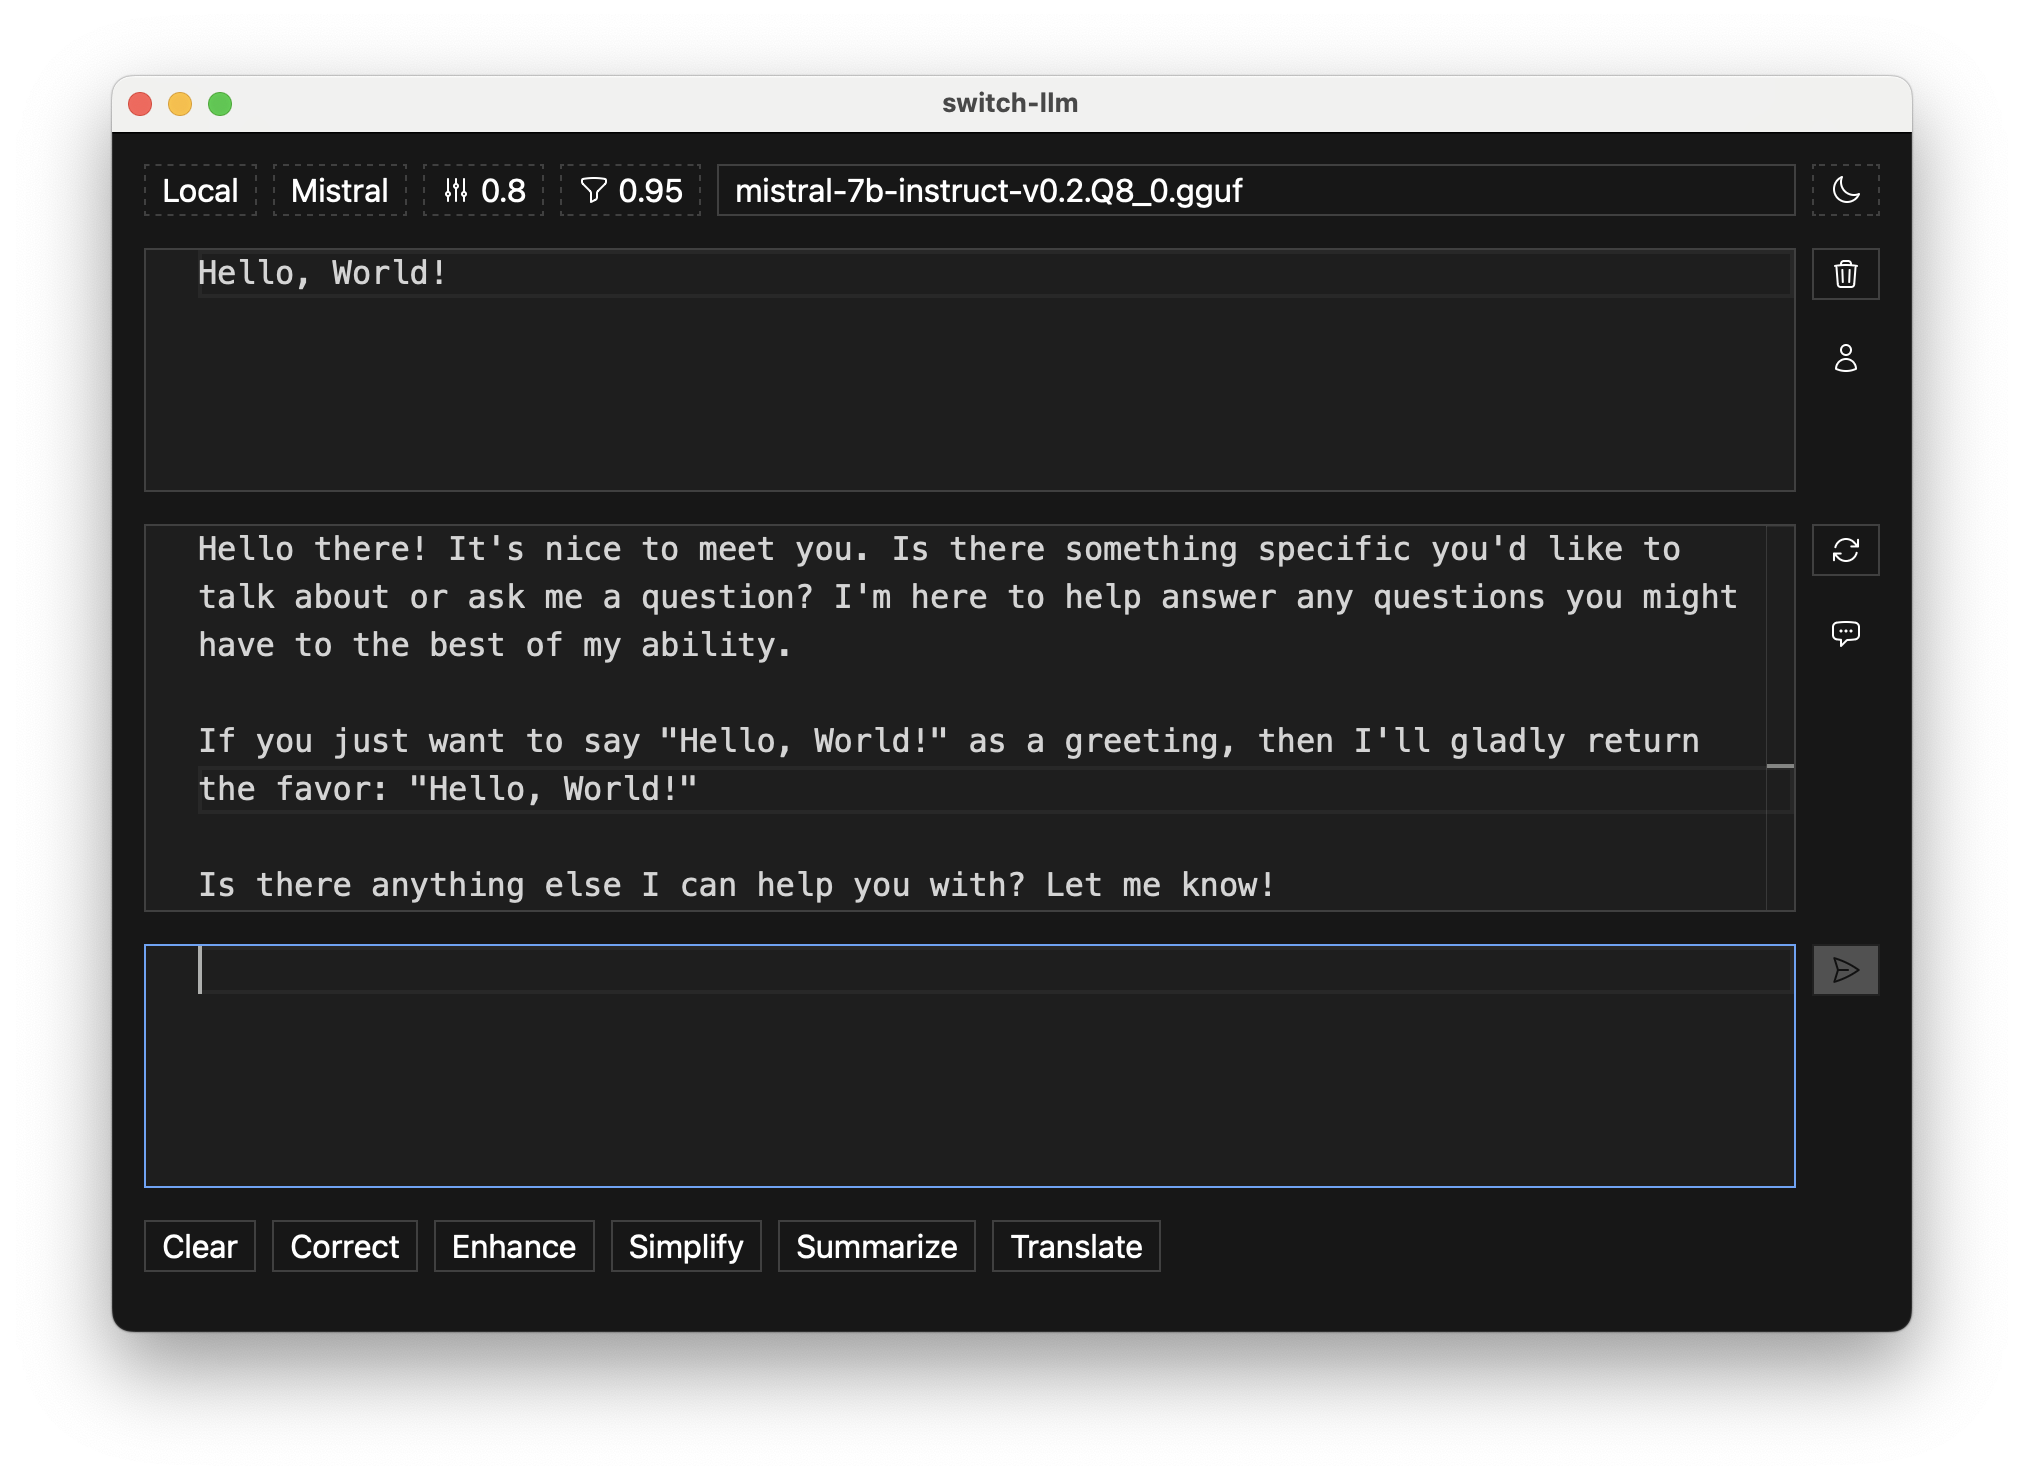
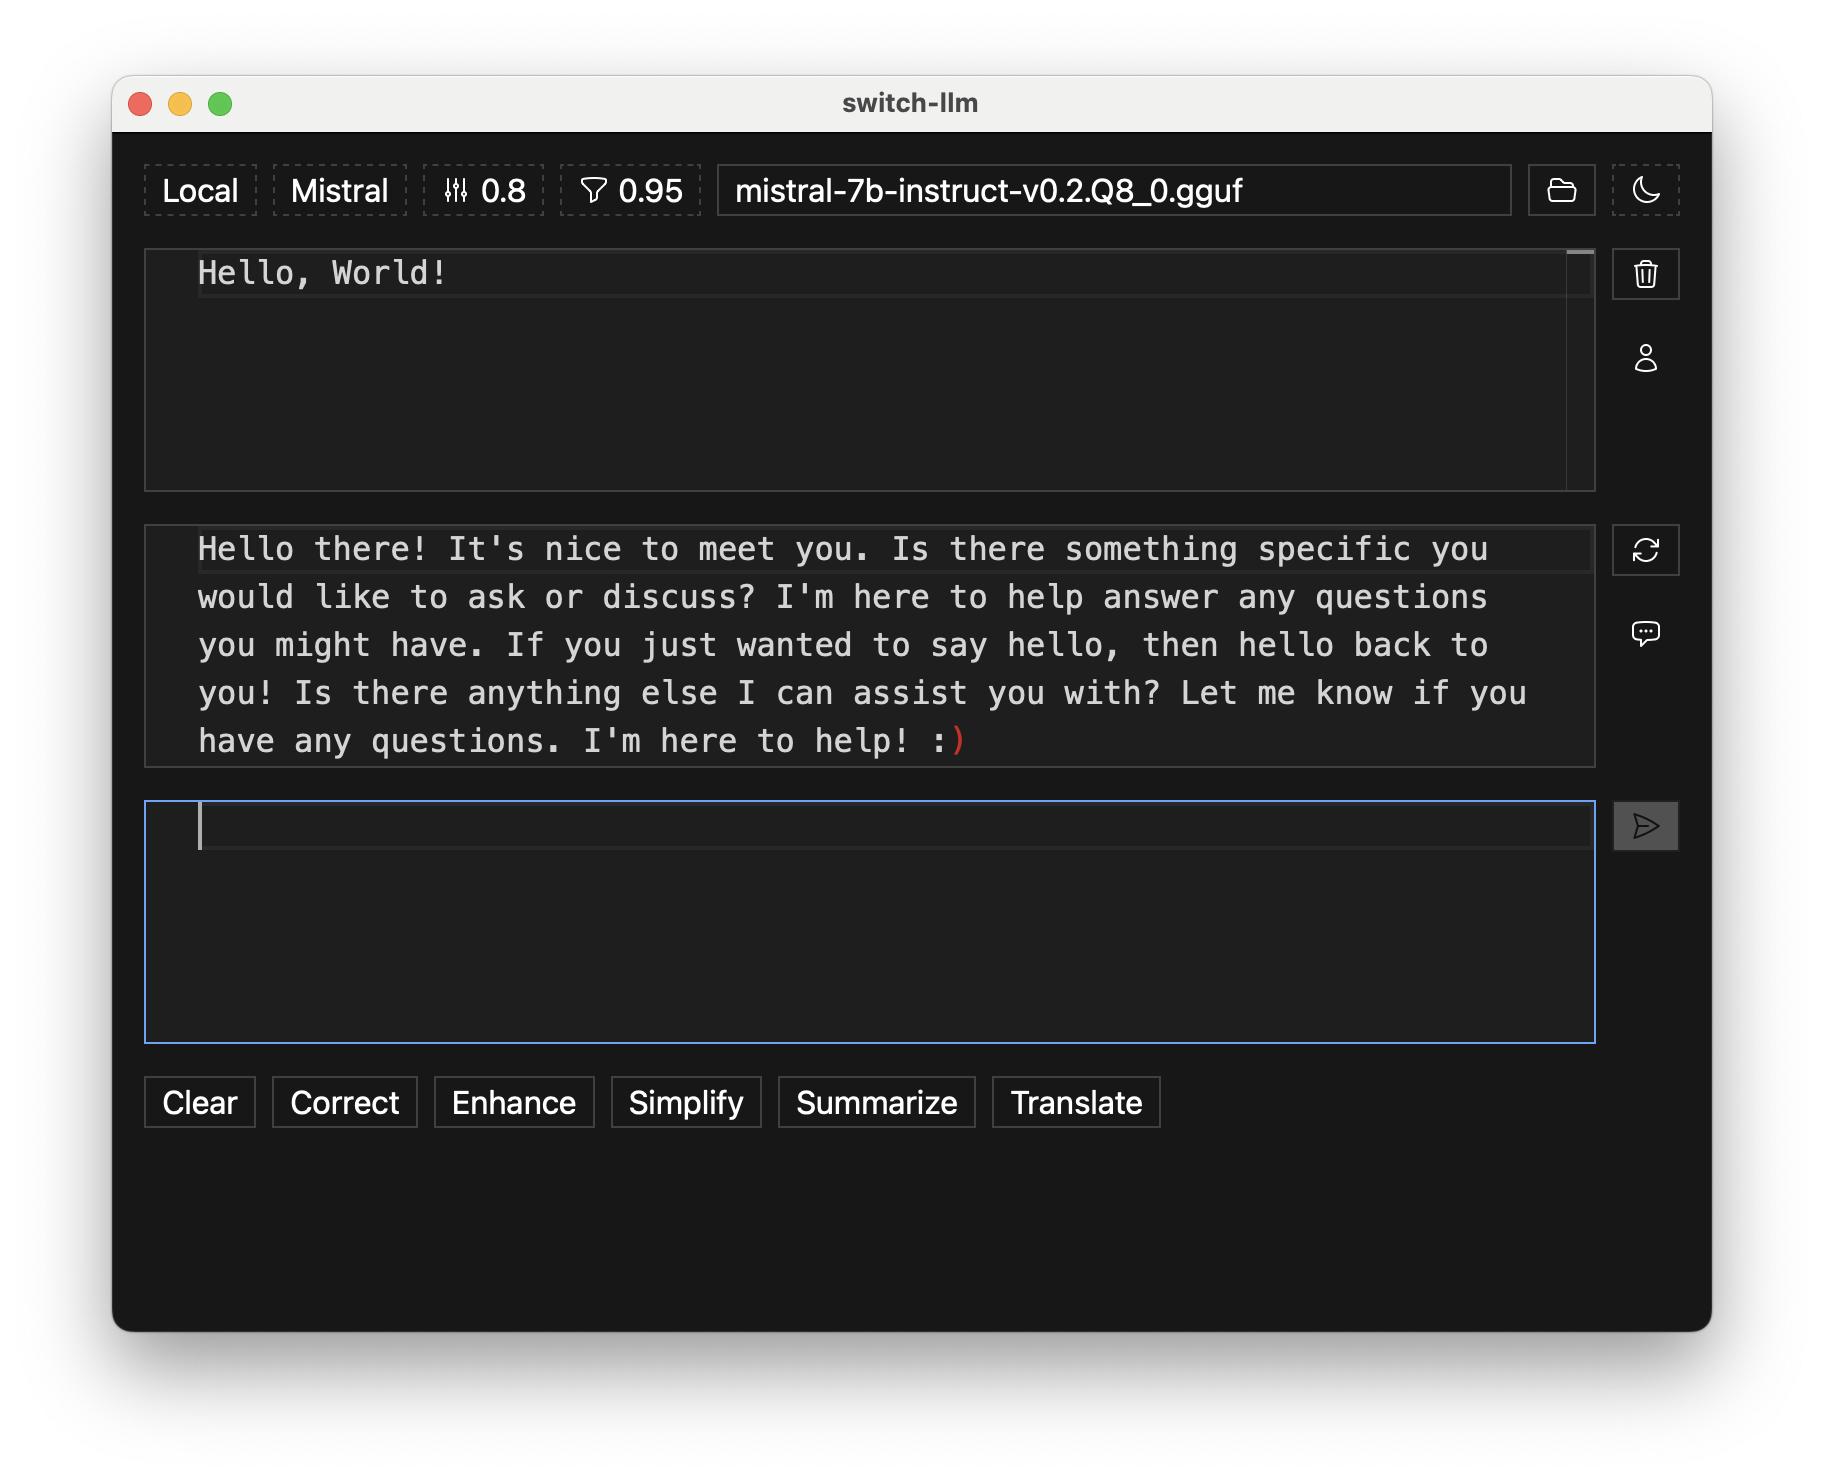
Add an open file dialog button to select a model (closes #2)

diff --git a/src/app/components/app.tsx b/src/app/components/app.tsx
@@ -1,9 +1,10 @@
 import * as React from 'react';
-import { ColorSchemeButton, Container, Page, Styles, Topbar } from 'wtfkit';
+import { Button, ColorSchemeButton, Container, Icon, Page, Styles, Topbar } from 'wtfkit';
 import { ApiContext } from '../contexts/api-context.js';
 import { ApiKeyView } from './api-key-view.js';
 import { ApiTypeButton } from './api-type-button.js';
 import { CompletionsView } from './completions-view.js';
+import { FolderOpenIcon } from '@heroicons/react/24/outline';
 import { MessageView } from './message-view.js';
 import { ModelPathView } from './model-path-view.js';
 import { OpenaiModelButton } from './openai-model-button.js';
@@ -25,6 +26,11 @@ export function App(): JSX.Element {
   const localApi = useLocalApi();
   const openaiApi = useOpenaiApi();
 
+  const selectModel = React.useCallback(
+    () => window.webkit.messageHandlers.selectModel.postMessage(null),
+    [],
+  );
+
   return (
     <ApiContext.Provider value={apiType === `local` ? localApi : openaiApi}>
       <Page styles={styles}>
@@ -38,7 +44,17 @@ export function App(): JSX.Element {
             <Container grow>
               <TemperatureButton />
               <TopPButton />
-              {apiType === `local` ? <ModelPathView /> : <ApiKeyView />}
+              {apiType === `local` ? (
+                <>
+                  <ModelPathView />
+
+                  <Button title="Select model" onClick={selectModel}>
+                    <Icon type={FolderOpenIcon} standalone />
+                  </Button>
+                </>
+              ) : (
+                <ApiKeyView />
+              )}
             </Container>
 
             <Container>

diff --git a/src/web-view.swift b/src/web-view.swift
@@ -7,6 +7,8 @@ struct WebView: NSViewRepresentable {
   func makeNSView(context: Context) -> WKWebView {
     let configuration = WKWebViewConfiguration()
 
+    configuration.userContentController.add(context.coordinator, name: "selectModel")
+
     #if DEBUG
       configuration.preferences.setValue(true, forKey: "developerExtrasEnabled")
     #endif
@@ -16,5 +18,32 @@ struct WebView: NSViewRepresentable {
 
   func updateNSView(_ nsView: WKWebView, context: NSViewRepresentableContext<WebView>) {
     nsView.load(URLRequest(url: URL(string: url)!))
+  }
+
+  func makeCoordinator() -> Coordinator {
+    Coordinator(self)
+  }
+
+  class Coordinator: NSObject, WKScriptMessageHandler {
+    init(_ parent: WebView) {}
+
+    func userContentController(
+      _ userContentController: WKUserContentController, didReceive message: WKScriptMessage
+    ) {
+      let panel = NSOpenPanel()
+
+      panel.canChooseFiles = true
+      panel.canChooseDirectories = false
+      panel.allowsMultipleSelection = false
+
+      panel.begin { (result) in
+        if result == .OK {
+          if let url = panel.urls.first {
+            message.webView!.evaluateJavaScript(
+              "setModelPath('\(url.path)')", completionHandler: nil)
+          }
+        }
+      }
+    }
   }
 }

diff --git a/src/app/main.tsx b/src/app/main.tsx
@@ -3,6 +3,13 @@ import * as React from 'react';
 import { App } from './components/app.js';
 import { createRoot } from 'react-dom/client';
 
+declare global {
+  interface Window {
+    webkit: { messageHandlers: { selectModel: { postMessage: (message: null) => void } } };
+    setModelPath: (value: string) => void;
+  }
+}
+
 createRoot(document.querySelector(`main#app`)!).render(
   <React.StrictMode>
     <App />

diff --git a/src/app/machines/model-path-machine.ts b/src/app/machines/model-path-machine.ts
@@ -14,3 +14,7 @@ export const modelPathMachine = createMachine({
 modelPathMachine.subscribe(() => {
   storageItem.value = modelPathMachine.get().value;
 });
+
+window.setModelPath = (value: string) => {
+  modelPathMachine.get().actions.set(value);
+};
